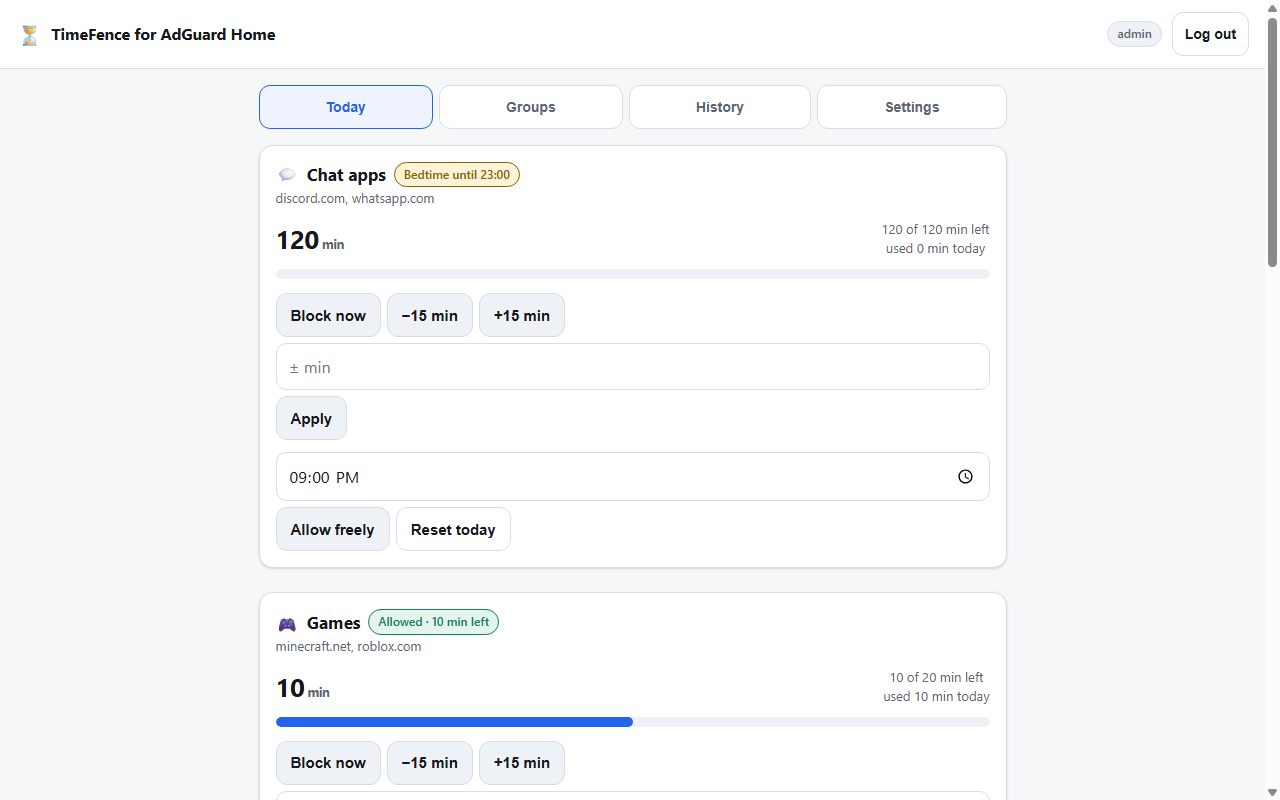
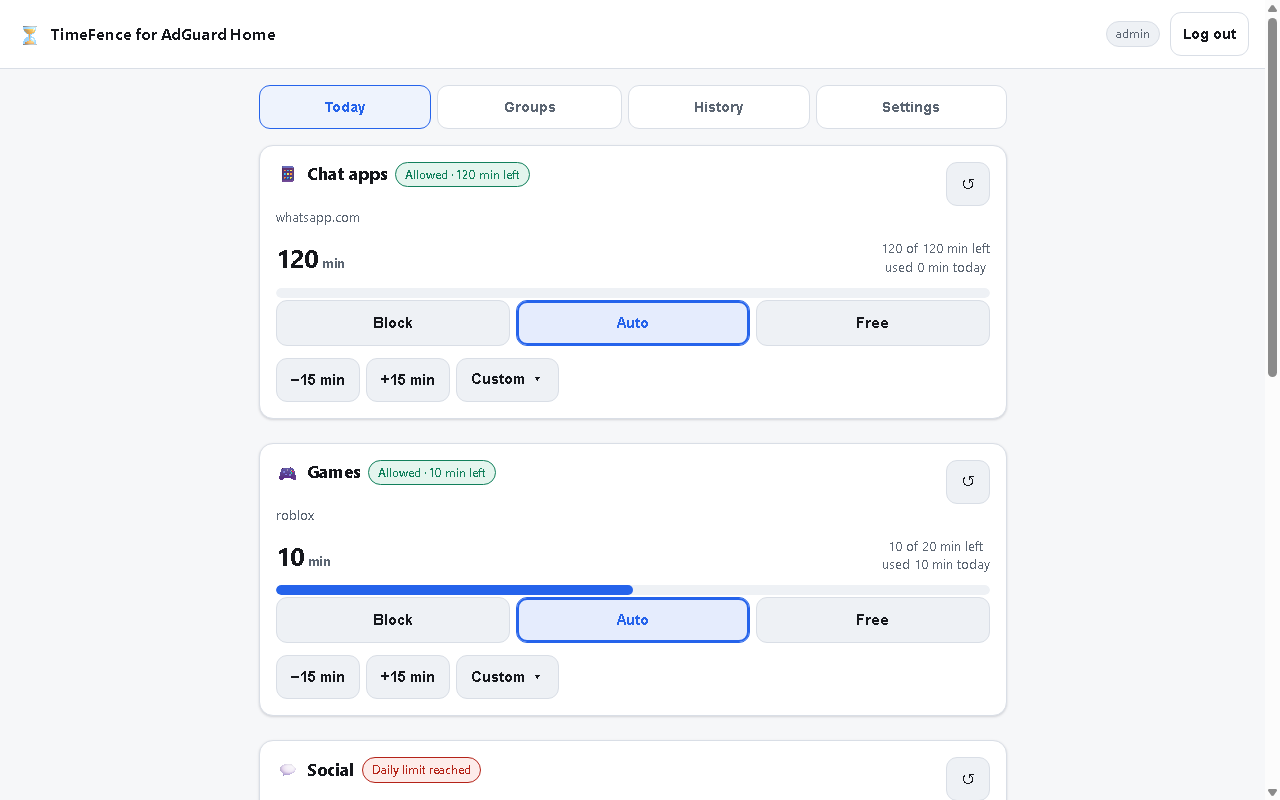
docs: retake the Today screenshots for the simpler card

diff --git a/docs/screenshots/README.md b/docs/screenshots/README.md
@@ -11,7 +11,7 @@ in any capture.
 | `kid-390.png` | the read-only kid screen on a phone: minutes left, a bedtime block |
 | `kid-390-dark.png` | the same kid screen in dark mode |
 | `kid-1280.png` | the kid screen at desktop width |
-| `admin-today-390.png` | the admin Today card on a phone, with status and quick actions |
+| `admin-today-390.png` | the admin Today card on a phone: reset icon, Block / Auto / Free and the bonus row |
 | `admin-today-1280.png` | the admin Today view at desktop width |
 | `admin-today-1280-dark.png` | the same view in dark mode |
 | `groups-1280.png` | the Groups tab: budgets, targets, owners and the AdGuard services picker |
